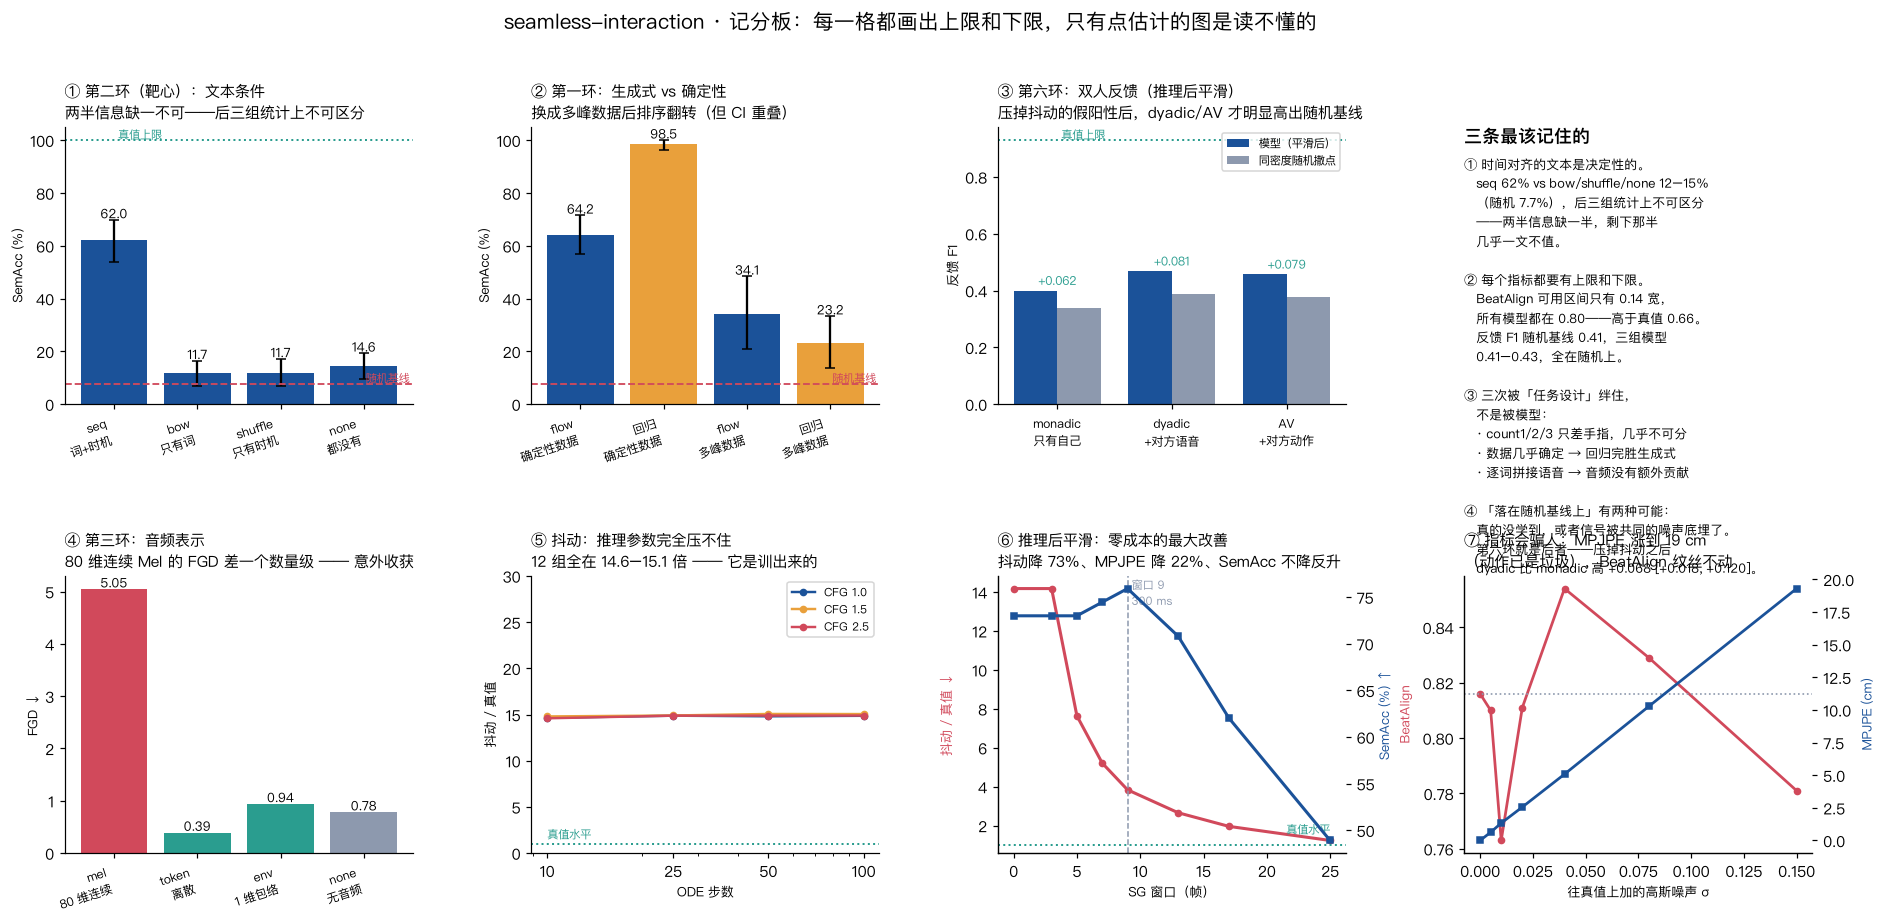
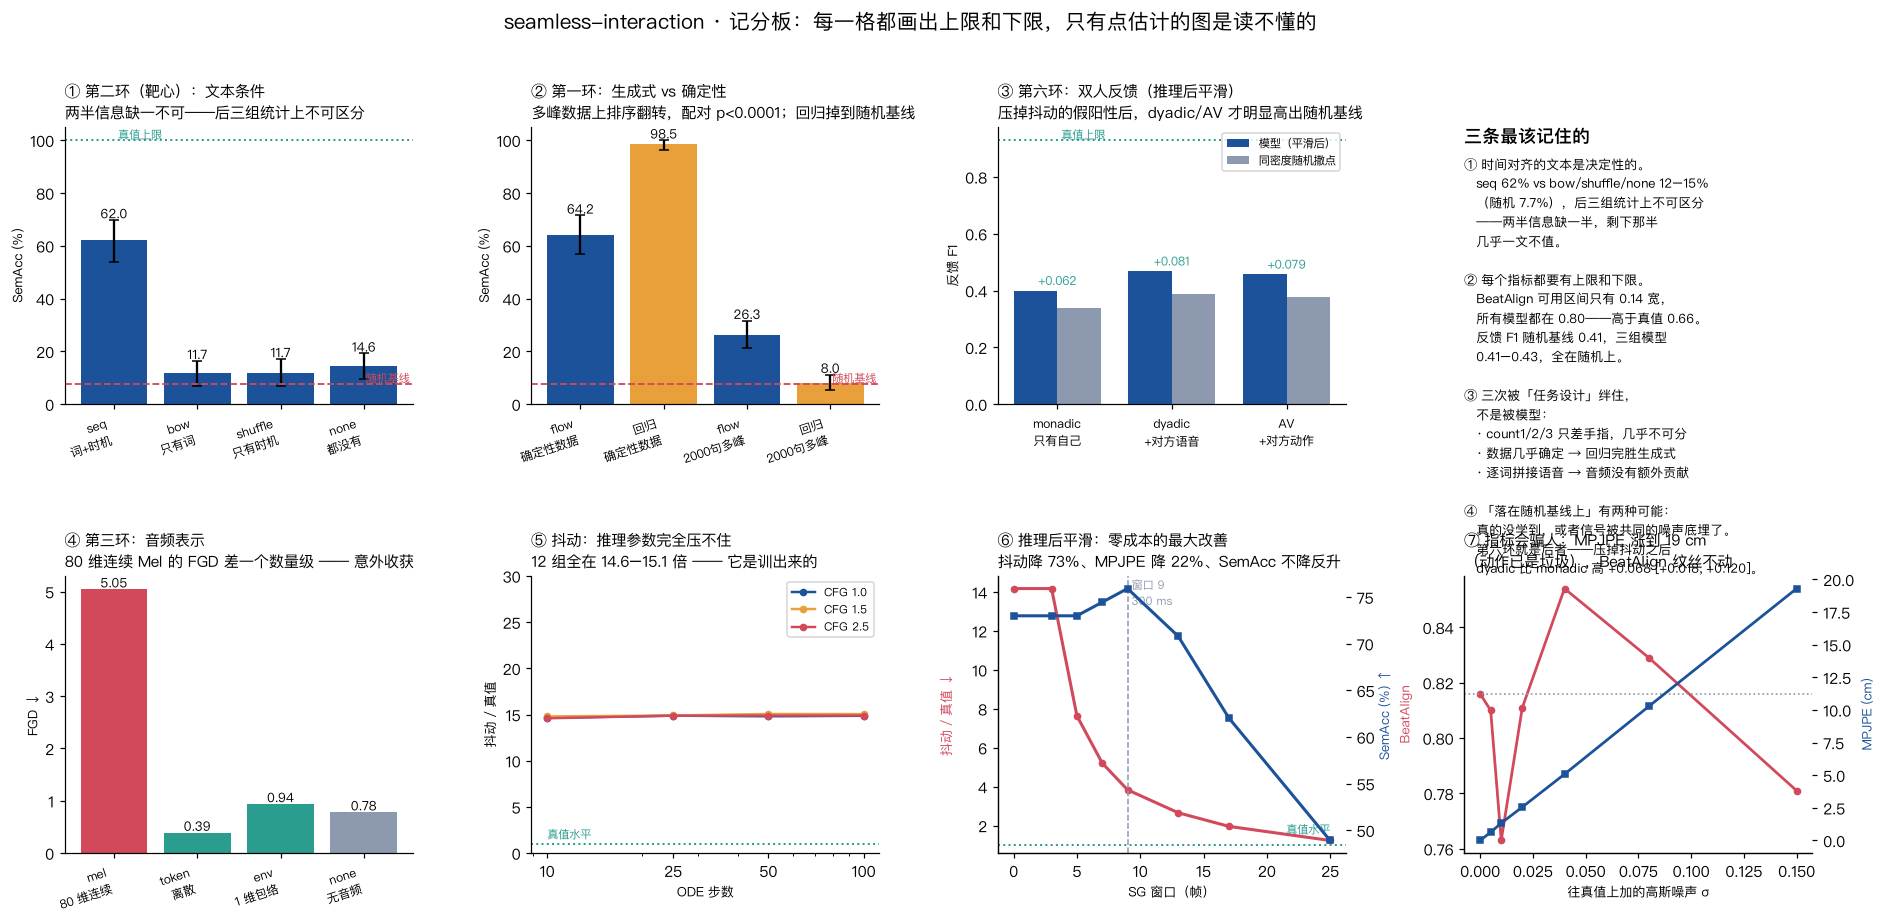
Scoreboard: use the decisive 2000-sentence ring-1 result; fix a key collision that made both data regimes show the same bars

Changed region(s): [[0.2771, 0.0909, 0.4926, 0.1515], [0.3694, 0.3333, 0.4618, 0.4242], [0.3694, 0.4545, 0.431, 0.5152]]

diff --git a/scripts/explain_dashboard.py b/scripts/explain_dashboard.py
@@ -63,20 +63,25 @@ def main():
 
     # ② 第一环：目标函数 × 数据
     ax = axes[0, 1]
-    a, b = _load("objective"), _load("objective_multi")
+    # 多峰那半用 2000 句版：40 句版方向对但区间重叠，2000 句版配对 p<0.0001
+    # 用**完整 run 名**取，不要用后缀截断——objective_o_flow 和 objective_2k_q_flow
+    # 截到最后一段都是 "flow"，会互相覆盖（这张图第一版就是这么错的）。
+    a, b = _load("objective"), _load("objective_2k")
     if a and b:
-        g = {x["name"].rsplit("_", 2)[-2] + "_" + x["name"].rsplit("_", 1)[-1]: x
-             for x in a + b}
-        keys = ["o_flow", "o_regress", "m_flow", "m_regress"]
-        lb = ["flow\n确定性数据", "回归\n确定性数据", "flow\n多峰数据", "回归\n多峰数据"]
-        have = [(l, g[k]) for l, k in zip(lb, keys) if k in g]
+        by = {x["name"]: x for x in a + b}
+        want = [("flow\n确定性数据", "objective_o_flow"),
+                ("回归\n确定性数据", "objective_o_regress"),
+                ("flow\n2000句多峰", "objective_2k_q_flow"),
+                ("回归\n2000句多峰", "objective_2k_q_regress")]
+        have = [(l, by[k]) for l, k in want if k in by]
         bars(ax, [l for l, _ in have], [x["sem_acc"] * 100 for _, x in have],
              [tuple(c * 100 for c in (bootstrap_ci(x["name"]) or (0, 0)))
               for _, x in have],
              color=[BLUE, ORANGE, BLUE, ORANGE][:len(have)],
              floor=100 / 13, ylab="SemAcc (%)")
     ax.set_title("② 第一环：生成式 vs 确定性\n"
-                 "换成多峰数据后排序翻转（但 CI 重叠）", fontsize=10, loc="left")
+                 "多峰数据上排序翻转，配对 p<0.0001；回归掉到随机基线",
+                 fontsize=10, loc="left")
 
     # ③ 第六环：双人
     ax = axes[0, 2]
